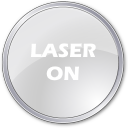
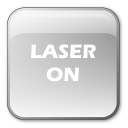
updated UI

diff --git a/home.py b/home.py
@@ -27,7 +27,6 @@ class Ui_MainWindow(object):
         font.setBold(False)
         font.setWeight(50)
         MainWindow.setFont(font)
-        MainWindow.setStyleSheet("background-color: qlineargradient(spread:pad, x1:0, y1:0, x2:1, y2:0, stop:0 rgba(200, 200, 200, 255), stop:1 rgba(255, 255, 255, 255));")
         self.centralwidget = QtWidgets.QWidget(MainWindow)
         self.centralwidget.setObjectName("centralwidget")
         self.layoutWidget = QtWidgets.QWidget(self.centralwidget)
@@ -59,11 +58,14 @@ class Ui_MainWindow(object):
         self.progressBar.setObjectName("progressBar")
         self.verticalLayout.addWidget(self.progressBar)
         self.label = QtWidgets.QLabel(self.layoutWidget)
+        self.label.setMinimumSize(QtCore.QSize(0, 30))
+        self.label.setMaximumSize(QtCore.QSize(16777215, 30))
         font = QtGui.QFont()
         font.setBold(True)
         font.setItalic(True)
         font.setWeight(75)
         self.label.setFont(font)
+        self.label.setStyleSheet("background-color: qlineargradient(spread:pad, x1:0, y1:0, x2:1, y2:0, stop:0 rgba(200, 200, 200, 255), stop:1 rgba(255, 255, 255, 255));")
         self.label.setAlignment(QtCore.Qt.AlignLeading|QtCore.Qt.AlignLeft|QtCore.Qt.AlignVCenter)
         self.label.setObjectName("label")
         self.verticalLayout.addWidget(self.label)
@@ -323,56 +325,56 @@ class Ui_MainWindow(object):
         self.ncRefButton.setFlat(True)
         self.ncRefButton.setObjectName("ncRefButton")
         self.gridLayout_3.addWidget(self.ncRefButton, 0, 0, 1, 1)
-        self.retForButton = QtWidgets.QPushButton(self.layoutWidget)
-        self.retForButton.setMinimumSize(QtCore.QSize(120, 120))
-        self.retForButton.setMaximumSize(QtCore.QSize(120, 120))
-        self.retForButton.setAutoFillBackground(False)
-        self.retForButton.setText("")
+        self.ncOffsetButton = QtWidgets.QPushButton(self.layoutWidget)
+        self.ncOffsetButton.setMinimumSize(QtCore.QSize(120, 120))
+        self.ncOffsetButton.setMaximumSize(QtCore.QSize(120, 120))
+        self.ncOffsetButton.setAutoFillBackground(False)
+        self.ncOffsetButton.setText("")
         icon13 = QtGui.QIcon()
-        icon13.addPixmap(QtGui.QPixmap("images/off/retfor.png"), QtGui.QIcon.Normal, QtGui.QIcon.Off)
-        icon13.addPixmap(QtGui.QPixmap("images/on/retfor.png"), QtGui.QIcon.Normal, QtGui.QIcon.On)
-        icon13.addPixmap(QtGui.QPixmap("images/disabled/retfor.png"), QtGui.QIcon.Disabled, QtGui.QIcon.On)
-        self.retForButton.setIcon(icon13)
-        self.retForButton.setIconSize(QtCore.QSize(120, 120))
-        self.retForButton.setCheckable(False)
-        self.retForButton.setChecked(False)
-        self.retForButton.setFlat(True)
-        self.retForButton.setObjectName("retForButton")
-        self.gridLayout_3.addWidget(self.retForButton, 2, 0, 1, 1)
+        icon13.addPixmap(QtGui.QPixmap("images/off/ncoffset.png"), QtGui.QIcon.Normal, QtGui.QIcon.Off)
+        icon13.addPixmap(QtGui.QPixmap("images/on/ncoffset.png"), QtGui.QIcon.Normal, QtGui.QIcon.On)
+        icon13.addPixmap(QtGui.QPixmap("images/disabled/ncoffset.png"), QtGui.QIcon.Disabled, QtGui.QIcon.On)
+        self.ncOffsetButton.setIcon(icon13)
+        self.ncOffsetButton.setIconSize(QtCore.QSize(120, 120))
+        self.ncOffsetButton.setCheckable(True)
+        self.ncOffsetButton.setChecked(False)
+        self.ncOffsetButton.setFlat(True)
+        self.ncOffsetButton.setObjectName("ncOffsetButton")
+        self.gridLayout_3.addWidget(self.ncOffsetButton, 2, 0, 1, 1)
         spacerItem13 = QtWidgets.QSpacerItem(20, 40, QtWidgets.QSizePolicy.Minimum, QtWidgets.QSizePolicy.Expanding)
         self.gridLayout_3.addItem(spacerItem13, 3, 0, 1, 1)
-        self.retOnButton = QtWidgets.QPushButton(self.layoutWidget)
-        self.retOnButton.setMinimumSize(QtCore.QSize(120, 120))
-        self.retOnButton.setMaximumSize(QtCore.QSize(120, 120))
-        self.retOnButton.setAutoFillBackground(False)
-        self.retOnButton.setText("")
-        icon14 = QtGui.QIcon()
-        icon14.addPixmap(QtGui.QPixmap("images/off/reton.png"), QtGui.QIcon.Normal, QtGui.QIcon.Off)
-        icon14.addPixmap(QtGui.QPixmap("images/on/reton.png"), QtGui.QIcon.Normal, QtGui.QIcon.On)
-        icon14.addPixmap(QtGui.QPixmap("images/disabled/reton.png"), QtGui.QIcon.Disabled, QtGui.QIcon.On)
-        self.retOnButton.setIcon(icon14)
-        self.retOnButton.setIconSize(QtCore.QSize(120, 120))
-        self.retOnButton.setCheckable(True)
-        self.retOnButton.setChecked(False)
-        self.retOnButton.setFlat(True)
-        self.retOnButton.setObjectName("retOnButton")
-        self.gridLayout_3.addWidget(self.retOnButton, 6, 0, 1, 1)
         self.retRevButton = QtWidgets.QPushButton(self.layoutWidget)
         self.retRevButton.setMinimumSize(QtCore.QSize(120, 120))
         self.retRevButton.setMaximumSize(QtCore.QSize(120, 120))
         self.retRevButton.setAutoFillBackground(False)
         self.retRevButton.setText("")
-        icon15 = QtGui.QIcon()
-        icon15.addPixmap(QtGui.QPixmap("images/off/retrev.png"), QtGui.QIcon.Normal, QtGui.QIcon.Off)
-        icon15.addPixmap(QtGui.QPixmap("images/on/retrev.png"), QtGui.QIcon.Normal, QtGui.QIcon.On)
-        icon15.addPixmap(QtGui.QPixmap("images/disabled/retrev.png"), QtGui.QIcon.Disabled, QtGui.QIcon.On)
-        self.retRevButton.setIcon(icon15)
+        icon14 = QtGui.QIcon()
+        icon14.addPixmap(QtGui.QPixmap("images/off/retrev.png"), QtGui.QIcon.Normal, QtGui.QIcon.Off)
+        icon14.addPixmap(QtGui.QPixmap("images/on/retrev.png"), QtGui.QIcon.Normal, QtGui.QIcon.On)
+        icon14.addPixmap(QtGui.QPixmap("images/disabled/retrev.png"), QtGui.QIcon.Disabled, QtGui.QIcon.On)
+        self.retRevButton.setIcon(icon14)
         self.retRevButton.setIconSize(QtCore.QSize(120, 120))
         self.retRevButton.setCheckable(False)
         self.retRevButton.setChecked(False)
         self.retRevButton.setFlat(True)
         self.retRevButton.setObjectName("retRevButton")
-        self.gridLayout_3.addWidget(self.retRevButton, 4, 0, 1, 1)
+        self.gridLayout_3.addWidget(self.retRevButton, 6, 0, 1, 1)
+        self.retForButton = QtWidgets.QPushButton(self.layoutWidget)
+        self.retForButton.setMinimumSize(QtCore.QSize(120, 120))
+        self.retForButton.setMaximumSize(QtCore.QSize(120, 120))
+        self.retForButton.setAutoFillBackground(False)
+        self.retForButton.setText("")
+        icon15 = QtGui.QIcon()
+        icon15.addPixmap(QtGui.QPixmap("images/off/retfor.png"), QtGui.QIcon.Normal, QtGui.QIcon.Off)
+        icon15.addPixmap(QtGui.QPixmap("images/on/retfor.png"), QtGui.QIcon.Normal, QtGui.QIcon.On)
+        icon15.addPixmap(QtGui.QPixmap("images/disabled/retfor.png"), QtGui.QIcon.Disabled, QtGui.QIcon.On)
+        self.retForButton.setIcon(icon15)
+        self.retForButton.setIconSize(QtCore.QSize(120, 120))
+        self.retForButton.setCheckable(False)
+        self.retForButton.setChecked(False)
+        self.retForButton.setFlat(True)
+        self.retForButton.setObjectName("retForButton")
+        self.gridLayout_3.addWidget(self.retForButton, 4, 0, 1, 1)
         spacerItem14 = QtWidgets.QSpacerItem(20, 40, QtWidgets.QSizePolicy.Minimum, QtWidgets.QSizePolicy.Expanding)
         self.gridLayout_3.addItem(spacerItem14, 5, 0, 1, 1)
         spacerItem15 = QtWidgets.QSpacerItem(20, 40, QtWidgets.QSizePolicy.Minimum, QtWidgets.QSizePolicy.Expanding)
@@ -483,44 +485,36 @@ class Ui_MainWindow(object):
         self.horizontalLayout.addItem(spacerItem22)
         self.gridLayout_5 = QtWidgets.QGridLayout()
         self.gridLayout_5.setObjectName("gridLayout_5")
-        self.laserReadyButton = QtWidgets.QPushButton(self.layoutWidget)
-        self.laserReadyButton.setMinimumSize(QtCore.QSize(130, 130))
-        self.laserReadyButton.setMaximumSize(QtCore.QSize(130, 130))
-        self.laserReadyButton.setAutoFillBackground(False)
-        self.laserReadyButton.setText("")
-        icon20 = QtGui.QIcon()
-        icon20.addPixmap(QtGui.QPixmap("images/off/laserready.png"), QtGui.QIcon.Normal, QtGui.QIcon.Off)
-        icon20.addPixmap(QtGui.QPixmap("images/on/laserready.png"), QtGui.QIcon.Normal, QtGui.QIcon.On)
-        icon20.addPixmap(QtGui.QPixmap("images/disabled/laserready.png"), QtGui.QIcon.Disabled, QtGui.QIcon.On)
-        self.laserReadyButton.setIcon(icon20)
-        self.laserReadyButton.setIconSize(QtCore.QSize(130, 130))
-        self.laserReadyButton.setCheckable(True)
-        self.laserReadyButton.setChecked(False)
-        self.laserReadyButton.setFlat(True)
-        self.laserReadyButton.setObjectName("laserReadyButton")
-        self.gridLayout_5.addWidget(self.laserReadyButton, 3, 0, 1, 1)
-        spacerItem23 = QtWidgets.QSpacerItem(20, 40, QtWidgets.QSizePolicy.Minimum, QtWidgets.QSizePolicy.Expanding)
-        self.gridLayout_5.addItem(spacerItem23, 2, 0, 1, 1)
-        spacerItem24 = QtWidgets.QSpacerItem(20, 40, QtWidgets.QSizePolicy.Minimum, QtWidgets.QSizePolicy.Expanding)
-        self.gridLayout_5.addItem(spacerItem24, 0, 0, 1, 1)
         self.laserOnButton = QtWidgets.QPushButton(self.layoutWidget)
         self.laserOnButton.setMinimumSize(QtCore.QSize(130, 130))
         self.laserOnButton.setMaximumSize(QtCore.QSize(130, 130))
         self.laserOnButton.setAutoFillBackground(False)
         self.laserOnButton.setText("")
-        icon21 = QtGui.QIcon()
-        icon21.addPixmap(QtGui.QPixmap("images/off/laseron.png"), QtGui.QIcon.Normal, QtGui.QIcon.Off)
-        icon21.addPixmap(QtGui.QPixmap("images/on/laseron.png"), QtGui.QIcon.Normal, QtGui.QIcon.On)
-        icon21.addPixmap(QtGui.QPixmap("images/disabled/laseron.png"), QtGui.QIcon.Disabled, QtGui.QIcon.On)
-        self.laserOnButton.setIcon(icon21)
+        icon20 = QtGui.QIcon()
+        icon20.addPixmap(QtGui.QPixmap("images/off/laseron.png"), QtGui.QIcon.Normal, QtGui.QIcon.Off)
+        icon20.addPixmap(QtGui.QPixmap("images/on/laseron.png"), QtGui.QIcon.Normal, QtGui.QIcon.On)
+        icon20.addPixmap(QtGui.QPixmap("images/disabled/laseron.png"), QtGui.QIcon.Disabled, QtGui.QIcon.On)
+        self.laserOnButton.setIcon(icon20)
         self.laserOnButton.setIconSize(QtCore.QSize(130, 130))
         self.laserOnButton.setCheckable(True)
         self.laserOnButton.setChecked(False)
         self.laserOnButton.setFlat(True)
         self.laserOnButton.setObjectName("laserOnButton")
         self.gridLayout_5.addWidget(self.laserOnButton, 1, 0, 1, 1)
+        spacerItem23 = QtWidgets.QSpacerItem(20, 40, QtWidgets.QSizePolicy.Minimum, QtWidgets.QSizePolicy.Expanding)
+        self.gridLayout_5.addItem(spacerItem23, 4, 0, 1, 1)
+        spacerItem24 = QtWidgets.QSpacerItem(20, 40, QtWidgets.QSizePolicy.Minimum, QtWidgets.QSizePolicy.Expanding)
+        self.gridLayout_5.addItem(spacerItem24, 0, 0, 1, 1)
         spacerItem25 = QtWidgets.QSpacerItem(20, 40, QtWidgets.QSizePolicy.Minimum, QtWidgets.QSizePolicy.Expanding)
-        self.gridLayout_5.addItem(spacerItem25, 4, 0, 1, 1)
+        self.gridLayout_5.addItem(spacerItem25, 2, 0, 1, 1)
+        self.laserReadyLamp = QtWidgets.QLabel(self.layoutWidget)
+        self.laserReadyLamp.setMinimumSize(QtCore.QSize(130, 130))
+        self.laserReadyLamp.setMaximumSize(QtCore.QSize(130, 130))
+        self.laserReadyLamp.setText("")
+        self.laserReadyLamp.setPixmap(QtGui.QPixmap("images/laserready_off.png"))
+        self.laserReadyLamp.setAlignment(QtCore.Qt.AlignCenter)
+        self.laserReadyLamp.setObjectName("laserReadyLamp")
+        self.gridLayout_5.addWidget(self.laserReadyLamp, 3, 0, 1, 1)
         self.horizontalLayout.addLayout(self.gridLayout_5)
         spacerItem26 = QtWidgets.QSpacerItem(40, 20, QtWidgets.QSizePolicy.Expanding, QtWidgets.QSizePolicy.Minimum)
         self.horizontalLayout.addItem(spacerItem26)
